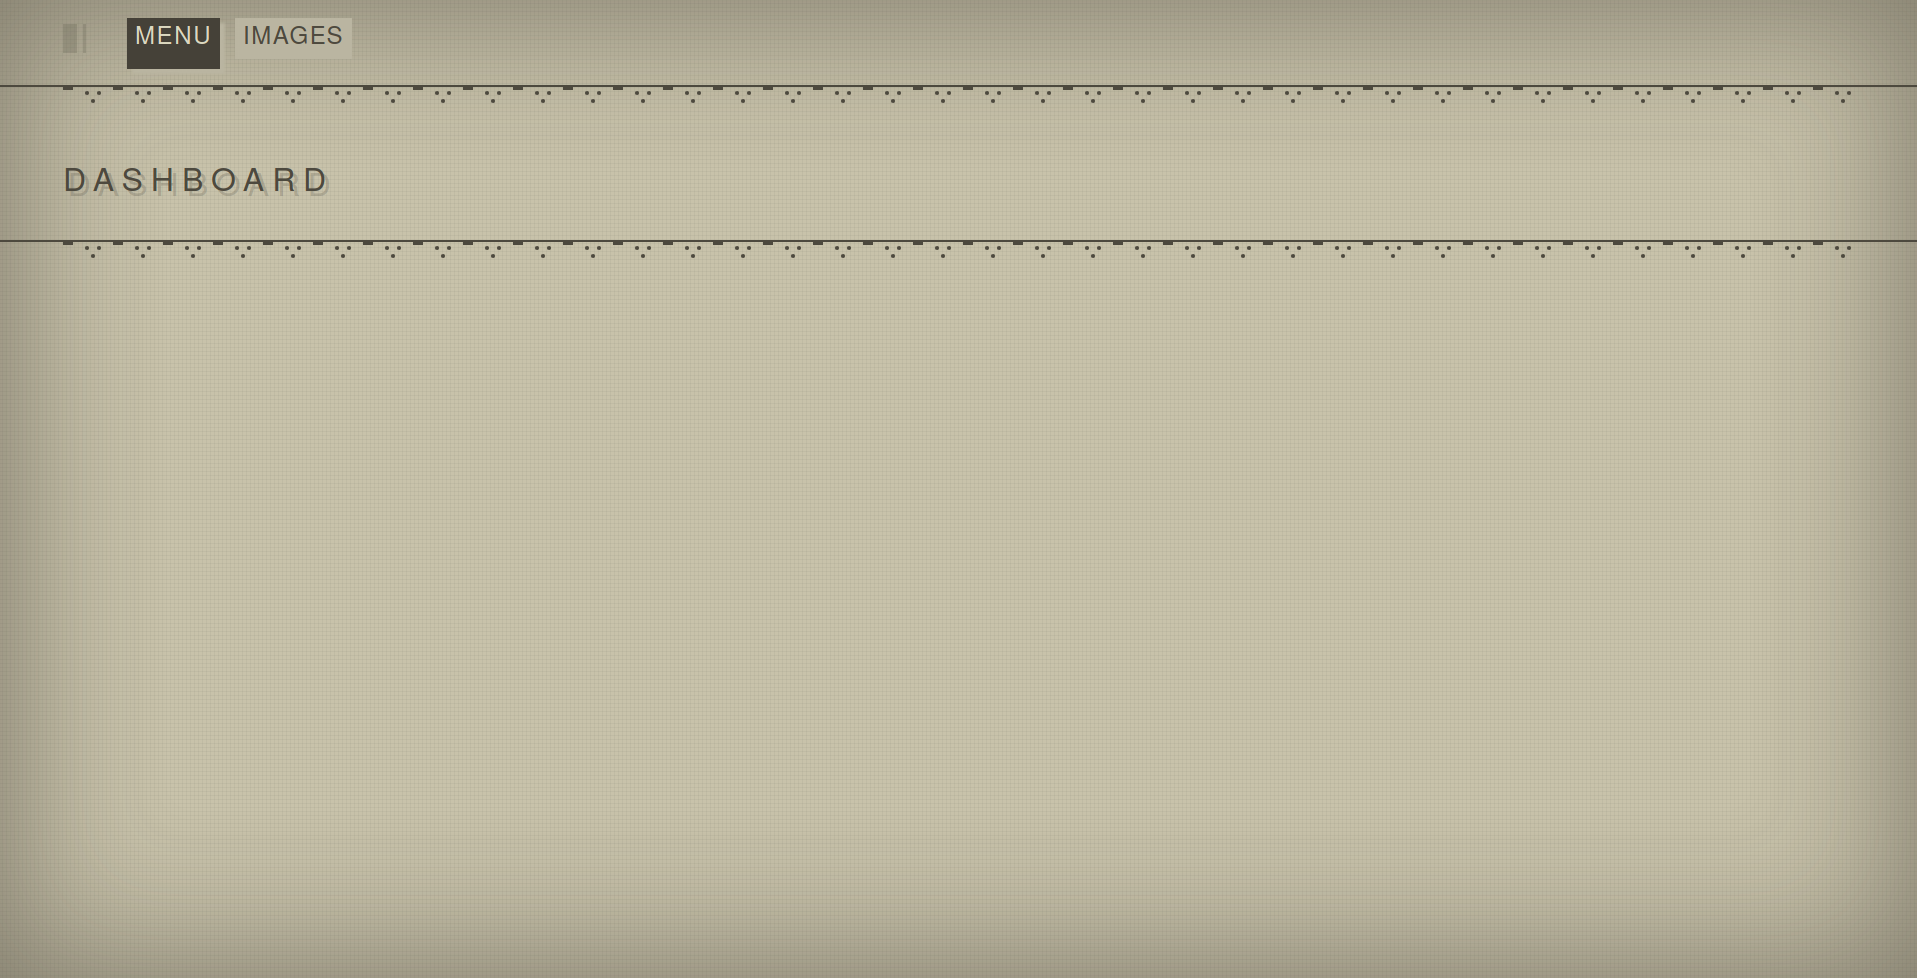
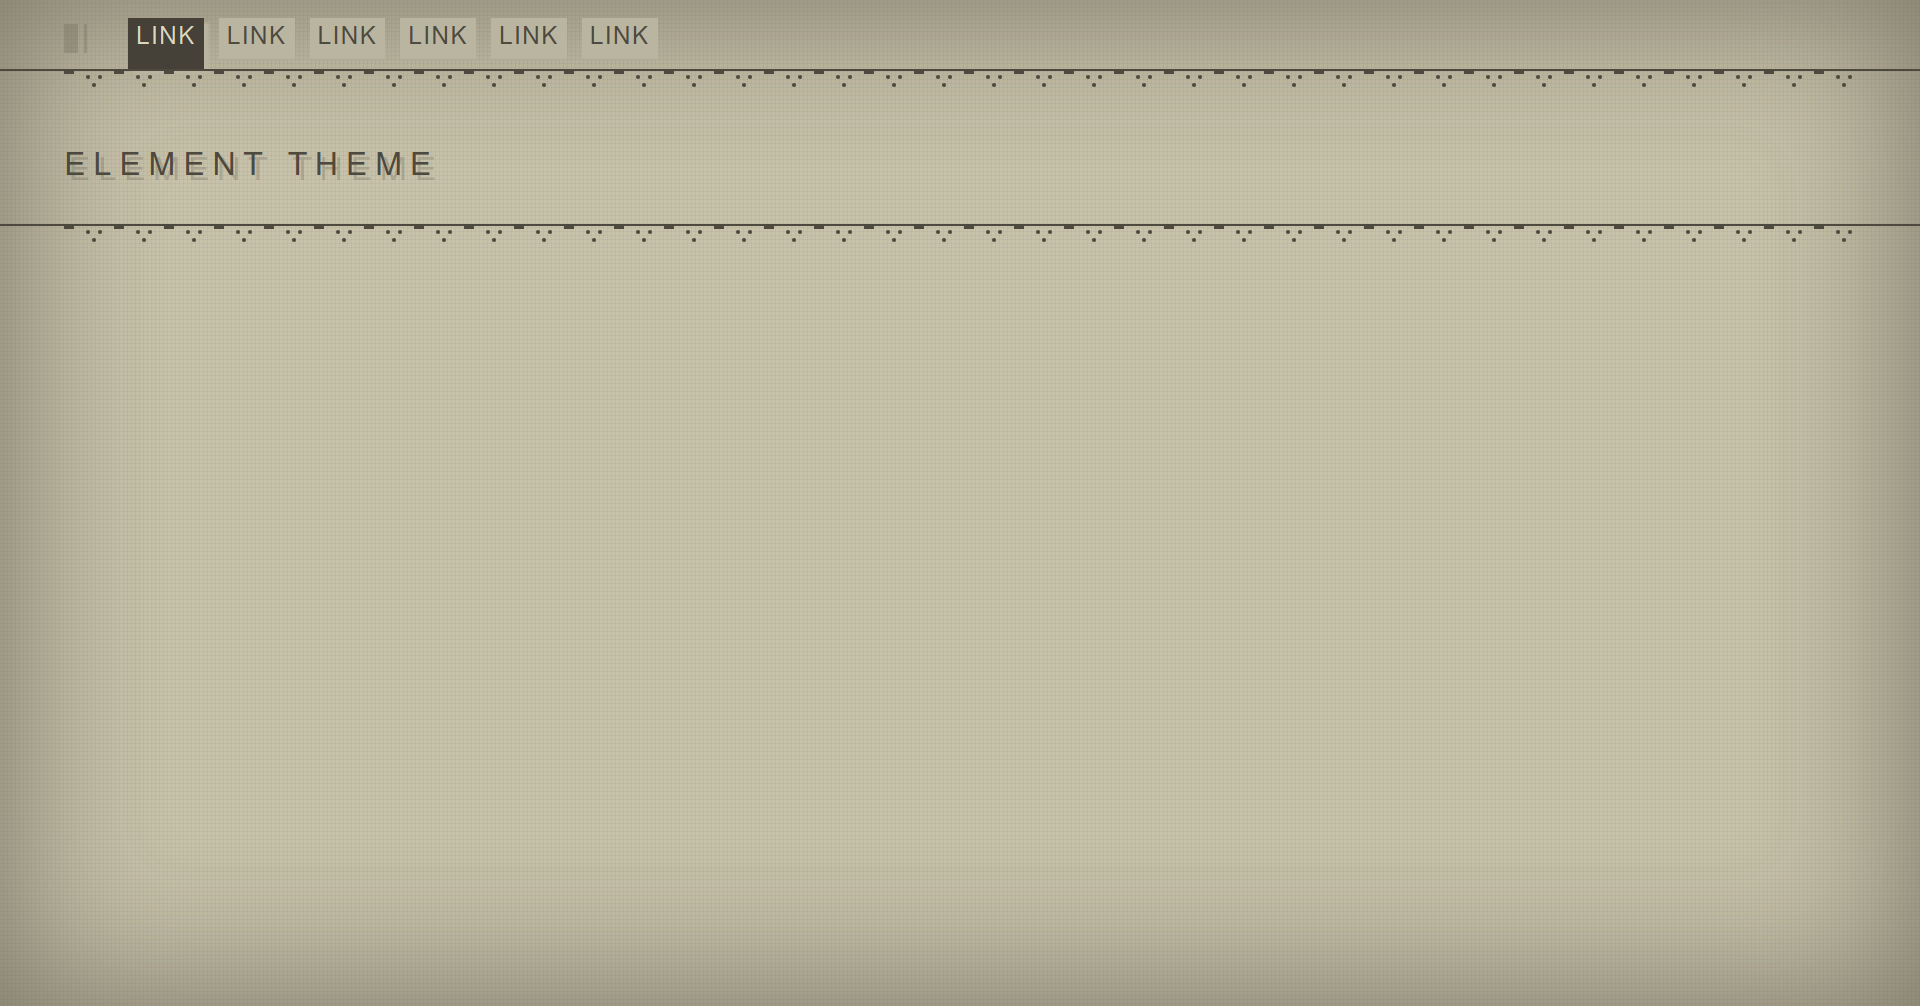
Update README, SCSS, Modal

Changed region(s): [[0.0308, 0.1534, 0.9849, 0.2761], [0.0, 0.0, 1.0, 0.092]]

diff --git a/nierInterface/templates/include/navbar_menu.html b/nierInterface/templates/include/navbar_menu.html
@@ -2,33 +2,33 @@
   {% block navbar-nav-inner %}
   <li class=" nav-item">
     <a class="btn nav-link nav-active" href="#">
-      <i class="nav-icon icon-speedometer"></i> Lien
+      <i class="nav-icon icon-speedometer"></i> Link
     </a>
   </li>
   <li class=" nav-item">
     <a class="btn nav-link " href="#">
-      <i class="nav-icon icon-clock"></i> Lien
+      <i class="nav-icon icon-clock"></i> Link
     </a>
   </li>
 
   <li class=" nav-item">
     <a class="btn nav-link" href="#">
-      <i class="nav-icon icon-clock"></i> Lien
+      <i class="nav-icon icon-clock"></i> Link
     </a>
   </li>
   <li class=" nav-item">
     <a class="btn nav-link" href="#">
-      <i class="nav-icon icon-clock"></i> Lien
+      <i class="nav-icon icon-clock"></i> Link
     </a>
   </li>
   <li class=" nav-item">
     <a class="btn nav-link" href="#">
-      <i class="nav-icon icon-clock"></i> Lien
+      <i class="nav-icon icon-clock"></i> Link
     </a>
   </li>
   <li class=" nav-item">
     <a class="btn nav-link" href="#">
-      <i class="nav-icon icon-clock"></i> Lien
+      <i class="nav-icon icon-clock"></i> Link
     </a>
   </li>
   {% endblock navbar-nav-inner %}

diff --git a/nierInterface/static/scss/_modal.scss b/nierInterface/static/scss/_modal.scss
@@ -2,7 +2,7 @@
 // @Date:   2020-10-22T19:37:57-04:00
 // @Email:  vabyz971@gmail.com
 // @Last modified by:   jahleel
-// @Last modified time: 2020-10-22T21:09:41-04:00
+// @Last modified time: 2020-10-23T10:16:12-04:00
 // @License: GPLv3
 
 .modal {
@@ -14,7 +14,7 @@
   left: 0;
   width: 100%;
   height: 100%;
-  background: rgba(0,0,0,0.7);
+  background: #00000059;
   animation: fadeIn 0.3s both;
 
   figure {
@@ -23,14 +23,31 @@
     animation: fromTop 0.3s both;
   }
 
+  figcaption {
+    text-transform: uppercase;
+  }
+
   .modal-wrapper {
     overflow: auto;
     width: 600px;
-    padding: 10px;
+    padding: 5px;
   }
 
-  button {
+  .modal-footer {
+    padding-top: 15px;
+    justify-content: space-around;
+    border-top: solid 1px;
+    margin-top: 5px;
+
+    .btn {
+      width: 20%;
+    }
+  }
+
+  .cross {
     background: none;
+    position: fixed;
+    right: 25px;
     margin: 0;
     padding: 0;
     border: none;

diff --git a/nierInterface/templates/form-modal.html b/nierInterface/templates/form-modal.html
@@ -2,17 +2,17 @@
 {% load crispy_forms_tags %}
 
 {% block body %}
-<form {% if form.helper.form_id %}id="{{ form.helper.form_id }}" {% endif %} action="{{ request.get_full_path }}" method="post" {% if form.is_multipart %}enctype="multipart/form-data" {% endif %}>
+<form {% if form.helper.form_id %} id="{{ form.helper.form_id }}" {% endif %} action="{{ request.get_full_path }}" method="post" {% if form.is_multipart %}enctype="multipart/form-data" {% endif %}>
 
 {% if form %}
 {% crispy form %}
 {% endif %}
 {% block footer %}
-<div class="">
+<div class="modal-footer row">
   <button type="submit" name="submit" class="btn {{ submit_btn_class }} ">{{submit_name}}</button>
   {% if close_button %}
-    <button type="button" class="btn js-modal-close" >{{ close_button }}</button>
-    {% endif %}
+    <button type="reset" class="btn js-modal-close" >{{ close_button }}</button>
+  {% endif %}
 </div>
 {% endblock footer %}
 </form>

diff --git a/nierInterface/templates/form-modal-success.html b/nierInterface/templates/form-modal-success.html
@@ -1,0 +1,36 @@
+{% extends "base-modal.html" %}
+
+{% block modal-header %}
+  <div id="modal" class="modal" aria-hidden="true" role="dialog" aria-modal="false" aria-label="titlemodal" style="display:none;">
+{% endblock modal-header %}
+
+{% block content %}
+
+<p>{{ content_text }}</p>
+
+{% endblock content %}
+
+{% block footer-js %}
+
+<script type="text/javascript">
+
+  {% if refresh_new_page %}
+
+    {% if success_url %}
+      window.open('{{ success_url }}', '_blank')
+    {% else %}
+      window.location.reload(true);
+    {% endif %}
+  {% else %}
+    {% if refresh_page and success_url %}
+      window.location = '{{ success_url }}'
+    {% else %}
+      location.reload()
+    {% endif %}
+  {% endif %}
+
+</script>
+
+{% endblock footer-js %}
+
+{% block modal-js %}{% endblock %}

diff --git a/nierInterface/templates/body.html b/nierInterface/templates/body.html
@@ -44,17 +44,6 @@
 
 {% block footer-body-js %}
 
-{# modal #}
-<div id="modal" class="modal" aria-hidden="true" role="dialog" aria-modal="false" aria-label="titlemodal" style="display:none;">
-  <figure class="js-modal-stop">
-    <figcaption id="titlemodal">{{ title }} <button class="js-modal-close">X</button></figcaption>
-    <div class="modal-wrapper">
-      Lorem ipsum dolor sit amet consectetur adipisicing elit. Repellendus reprehenderit incidunt aut nulla! Dicta
-      molestiae nesciunt sunt neque aliquid, recusandae perferendis earum eaque nam ea explicabo quibusdam quidem quas
-      aspernatur?
-    </div>
-  </figure>
-</div>
 <script src="{% static 'js/nier-modal.js' %}" charset="utf-8"></script>
 
 {% endblock %}

diff --git a/nierInterface/templates/theme/modal.html b/nierInterface/templates/theme/modal.html
@@ -7,7 +7,15 @@
 {% endblock modal-header %}
     <div class="modal-wrapper">
       {% block body %}
-      {% block content %}{% endblock %}
+      {% block content %}
+      <form class="" action="index.html" method="post">
+        <label for="">Name:</label>
+        <input type="text" name="name" value="">
+        <label for="">Email:</label>
+        <input type="text" name="name" value="">
+        <button type="submit" name="button">submit</button>
+      </form>
+      {% endblock %}
       {% block footer %}{% endblock footer %}
       {% endblock body %}
     </div>

diff --git a/nierInterface/static/js/nier-modal.js b/nierInterface/static/js/nier-modal.js
@@ -3,7 +3,7 @@
  * @Date:   2020-10-22T18:40:28-04:00
  * @Email:  vabyz971@gmail.com
  * @Last modified by:   jahleel
- * @Last modified time: 2020-10-22T22:08:52-04:00
+ * @Last modified time: 2020-10-23T10:10:55-04:00
  * @License: GPLv3
  */
 
@@ -38,6 +38,7 @@ const closeModal = function(e) {
   modal.querySelector('.js-modal-stop').removeEventListener('click', stopPropagation)
   window.setTimeout(function() {
     modal.style.display = "none"
+    modal.remove()
     modal = null
   }, 400)
 }

diff --git a/nierInterface/templates/theme/element.html b/nierInterface/templates/theme/element.html
@@ -1,0 +1,16 @@
+{% extends "body.html" %}
+
+{% block content-inner %}
+
+<div class="row">
+  <div class="container mb-5">
+    {% url 'nierInterface:modal' as url %}
+    <a class="btn nav-link" href="{{url}}" data-target="{{url}}#modal" data-toggle="modal">Modal Ajax</a>
+
+  </div>
+
+</div>
+
+
+
+{% endblock content-inner %}

diff --git a/nierInterface/static/scss/_variables.scss b/nierInterface/static/scss/_variables.scss
@@ -21,7 +21,7 @@
 }
 
 .mb-5 {
-  margin-top: 1rem !important;
+  margin-bottom: 1rem !important;
 }
 
 .mt-0 {

diff --git a/nierInterface/views.py b/nierInterface/views.py
@@ -1,0 +1,21 @@
+# @Author: Jahleel Lacascade <jahleel>
+# @Date:   2020-09-03T11:45:06-04:00
+# @Email:  vabyz971@gmail.com
+# @Last modified by:   jahleel
+# @Last modified time: 2020-11-17T08:19:43-04:00
+# @License: GPLv3
+
+from django.utils.translation import ugettext_lazy as _
+
+from .generic import TemplateView, modal
+
+
+class ElementTheme(TemplateView):
+    title = _('Element theme')
+    template_name = 'theme/element.html'
+
+
+class ModalTheme(modal.TemplateView):
+
+    title = _('Card Ajax')
+    template_name = 'theme/modal.html'

diff --git a/nierInterface/urls.py b/nierInterface/urls.py
@@ -1,0 +1,15 @@
+# @Author: Jahleel Lacascade <jahleel>
+# @Date:   2020-11-17T07:05:55-04:00
+# @Email:  vabyz971@gmail.com
+# @Last modified by:   jahleel
+# @Last modified time: 2020-11-17T08:03:18-04:00
+# @License: GPLv3
+
+from django.urls import path
+from . import views
+
+app_name = 'nierInterface'
+urlpatterns = [
+    path('theme/', views.ElementTheme.as_view(), name="element"),
+    path('modal/', views.ModalTheme.as_view(), name="modal"),
+]

diff --git a/README.md b/README.md
@@ -5,6 +5,10 @@
 Le module est en version Alpha.
 Le système de template est basé sur les ClasseBaseView.
 
+#### Require
+
+-   django >= 3
+
 #### Installation du Module
 
 Ajouter les éléments suivent dans votre fichier settings.py
@@ -13,6 +17,23 @@ Ajouter les éléments suivent dans votre fichier settings.py
 DJANGO_APPS= ['nierInterface']
 ```
 
+Ajouter les imports dans votre views.py pour utiliser le theme
+
+```python
+from nierInterface.generic import TemplateView ,ListView ,CreateView, DeleteView, modal
+```
+
 ## Capture
 
-![screen](captures/screenshot.png) 
+![screen](captures/screenshot.png)
+
+## Modal
+
+![screen](captures/modal-ajax.png)
+
+Use Modal
+
+```html
+{% url 'nierInterface:modal' as url %}
+<a class="btn" href="{{url}}" data-target="{{url}}#modal" data-toggle="modal">title btn</a>
+```
